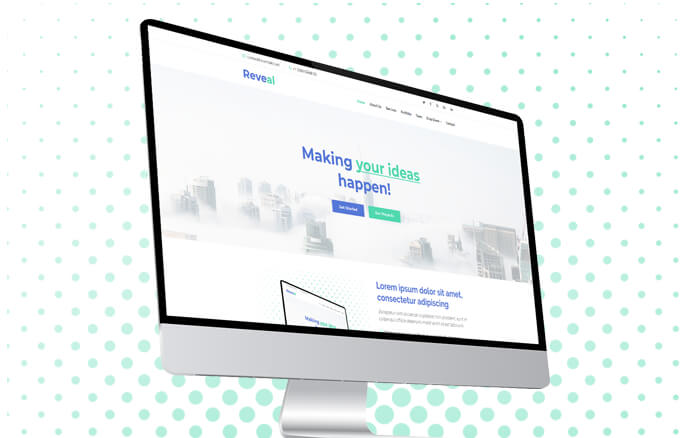
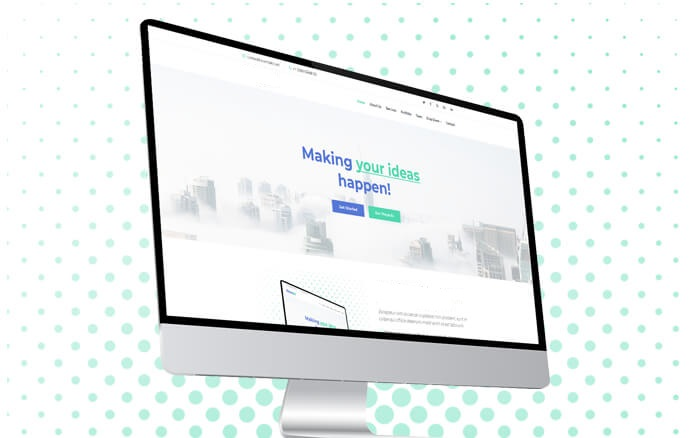
added few changes in picture

Changed region(s): [[0.5478, 0.653, 0.6696, 0.7123], [0.4565, 0.3562, 0.6087, 0.4452], [0.3348, 0.1484, 0.3957, 0.2078]]

diff --git a/index.html b/index.html
@@ -10,8 +10,8 @@
   <meta content="" name="keywords">
 
   <!-- Favicons -->
-  <link href="assets/img/favicon.png" rel="icon">
-  <link href="assets/img/apple-touch-icon.png" rel="apple-touch-icon">
+  <link href="assets/img/icon-bg.png" rel="icon">
+  <link href="assets/img/icon.png" rel="apple-touch-icon">
 
   <!-- Google Fonts -->
   <link href="https://fonts.googleapis.com/css?family=Open+Sans:300,300i,400,400i,700,700i|Raleway:300,400,500,700,800|Montserrat:300,400,700" rel="stylesheet">
@@ -42,8 +42,8 @@
   <section id="topbar" class="d-flex align-items-center">
     <div class="container d-flex justify-content-center justify-content-md-between">
       <div class="contact-info d-flex align-items-center">
-        <i class="bi bi-envelope d-flex align-items-center"><a href="mailto:contact@example.com">contact@example.com</a></i>
-        <i class="bi bi-phone d-flex align-items-center ms-4"><span>+1 5589 55488 55</span></i>
+        <i class="bi bi-envelope d-flex align-items-center"><a href="mailto:contact@example.com">generativeapis@gmail.com</a></i>
+        <i class="bi bi-phone d-flex align-items-center ms-4"><span>+91 7814 2814 57</span></i>
       </div>
       <div class="social-links d-none d-md-flex align-items-center">
         <a href="#" class="twitter"><i class="bi bi-twitter"></i></a>
@@ -59,7 +59,7 @@
     <div class="container d-flex justify-content-between">
 
       <div id="logo">
-        <h1><a href="index.html">Reve<span>al</span></a></h1>
+        <h1><a href="index.html">G<span>APIs</span></a></h1>
         <!-- Uncomment below if you prefer to use an image logo -->
         <!-- <a href="index.html"><img src="assets/img/logo.png" alt=""></a>-->
       </div>
